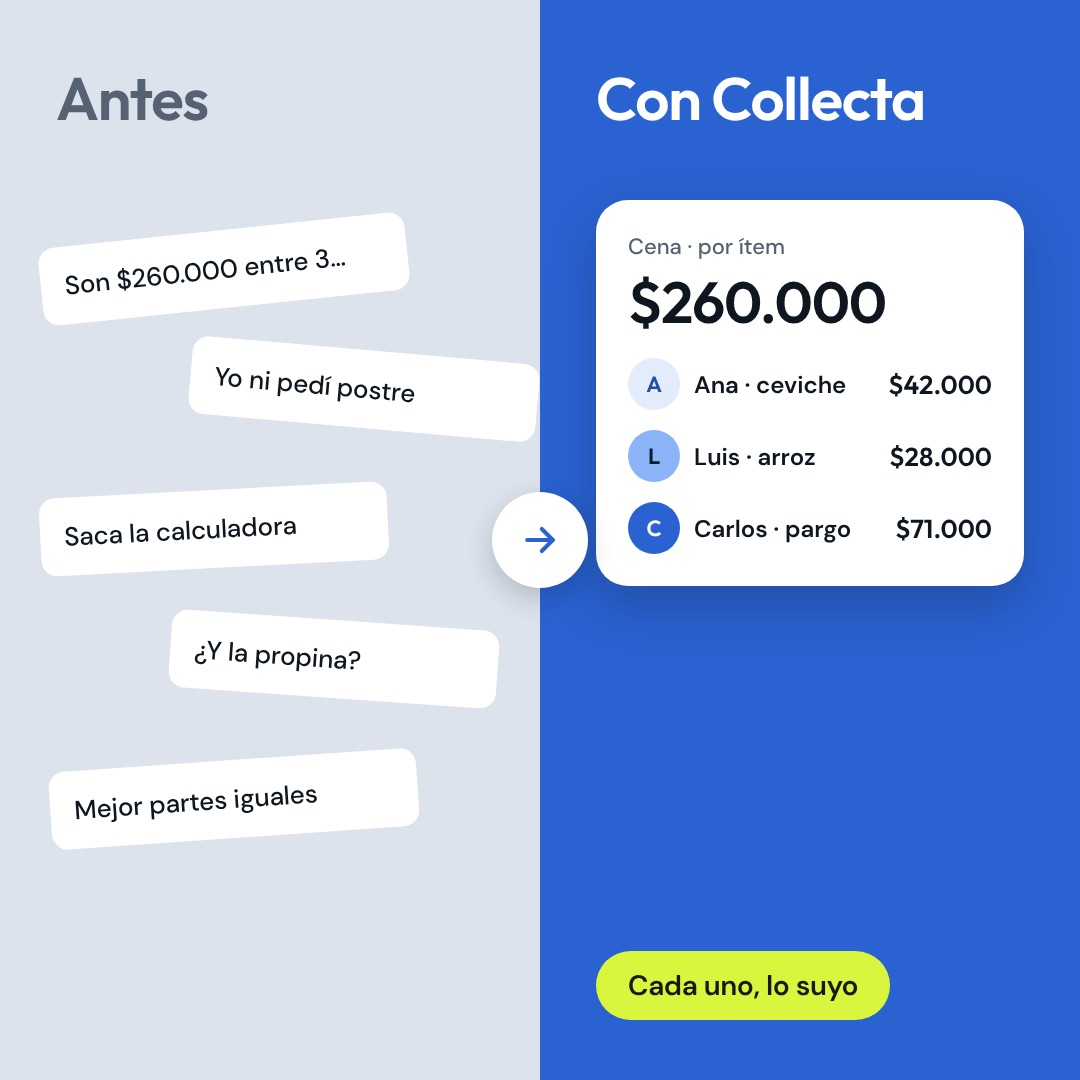
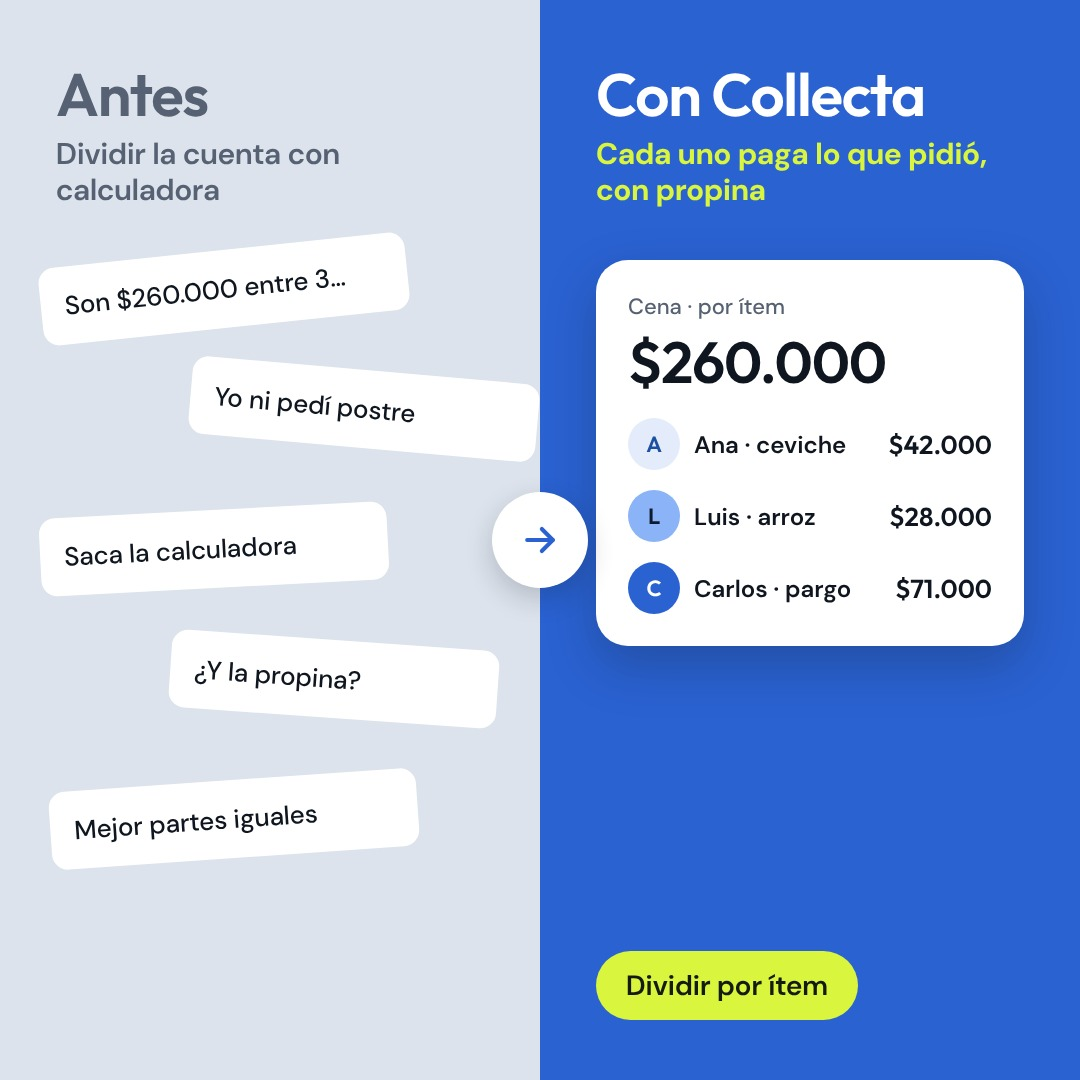
P04 pasa a carrusel del escáner con IA, Quiénes somos es post aparte, CTA premium «desde la app», P16 y antes/después rediseñados
Claude-Session: https://claude.ai/code/session_01HbH3V5Jue1qgoVzDuP3Li2

diff --git a/CLAUDE.md b/CLAUDE.md
@@ -20,7 +20,7 @@ La usuaria (Daniela) no es técnica: explícale todo en español, claro y paso a
 4. Antes de cualquier publicación real corre una validación: `DRY_RUN=1` (o el workflow con `dry_run=1`). Verifica que cada imagen sea pública y JPEG.
 5. No re-publiques lo que ya está en `state/published.json`.
 6. Tono de las descripciones: cercano, claro, en español de Colombia, sin exagerar. No prometas funciones que no existen: hoy Collecta **no guarda ni mueve dinero** (cada quien paga por su banco y quien recibe confirma). El escáner con IA ya funciona pero es **premium**. El primer y el último post de cada serie llevan el enlace de la app: https://collecta-xi.vercel.app
-7. **Gratis vs premium** (según el pitch deck): la versión beta gratuita incluye grupos, 4 formas de dividir (iguales, montos exactos, por ítem con propina, por noches), registro y confirmación de pagos y captura manual con foto del comprobante. Son **premium**: metas de ahorro, gastos automáticos, préstamos en cuotas y escáner con IA. Distinción discreta; no pongas precios en las publicaciones. Para lo premium el llamado es «escríbenos para activarla».
+7. **Gratis vs premium** (según el pitch deck): la versión beta gratuita incluye grupos, 4 formas de dividir (iguales, montos exactos, por ítem con propina, por noches), registro y confirmación de pagos y captura manual con foto del comprobante. Son **premium**: metas de ahorro, gastos automáticos, préstamos en cuotas y escáner con IA. Distinción discreta; no pongas precios en las publicaciones. Para lo premium el llamado es «adquiérela desde la app» (nunca «escríbenos»).
 8. Hashtags: pocos (4–8), relevantes. Se agregan al final de la descripción al publicar.
 
 ## Tareas habituales
